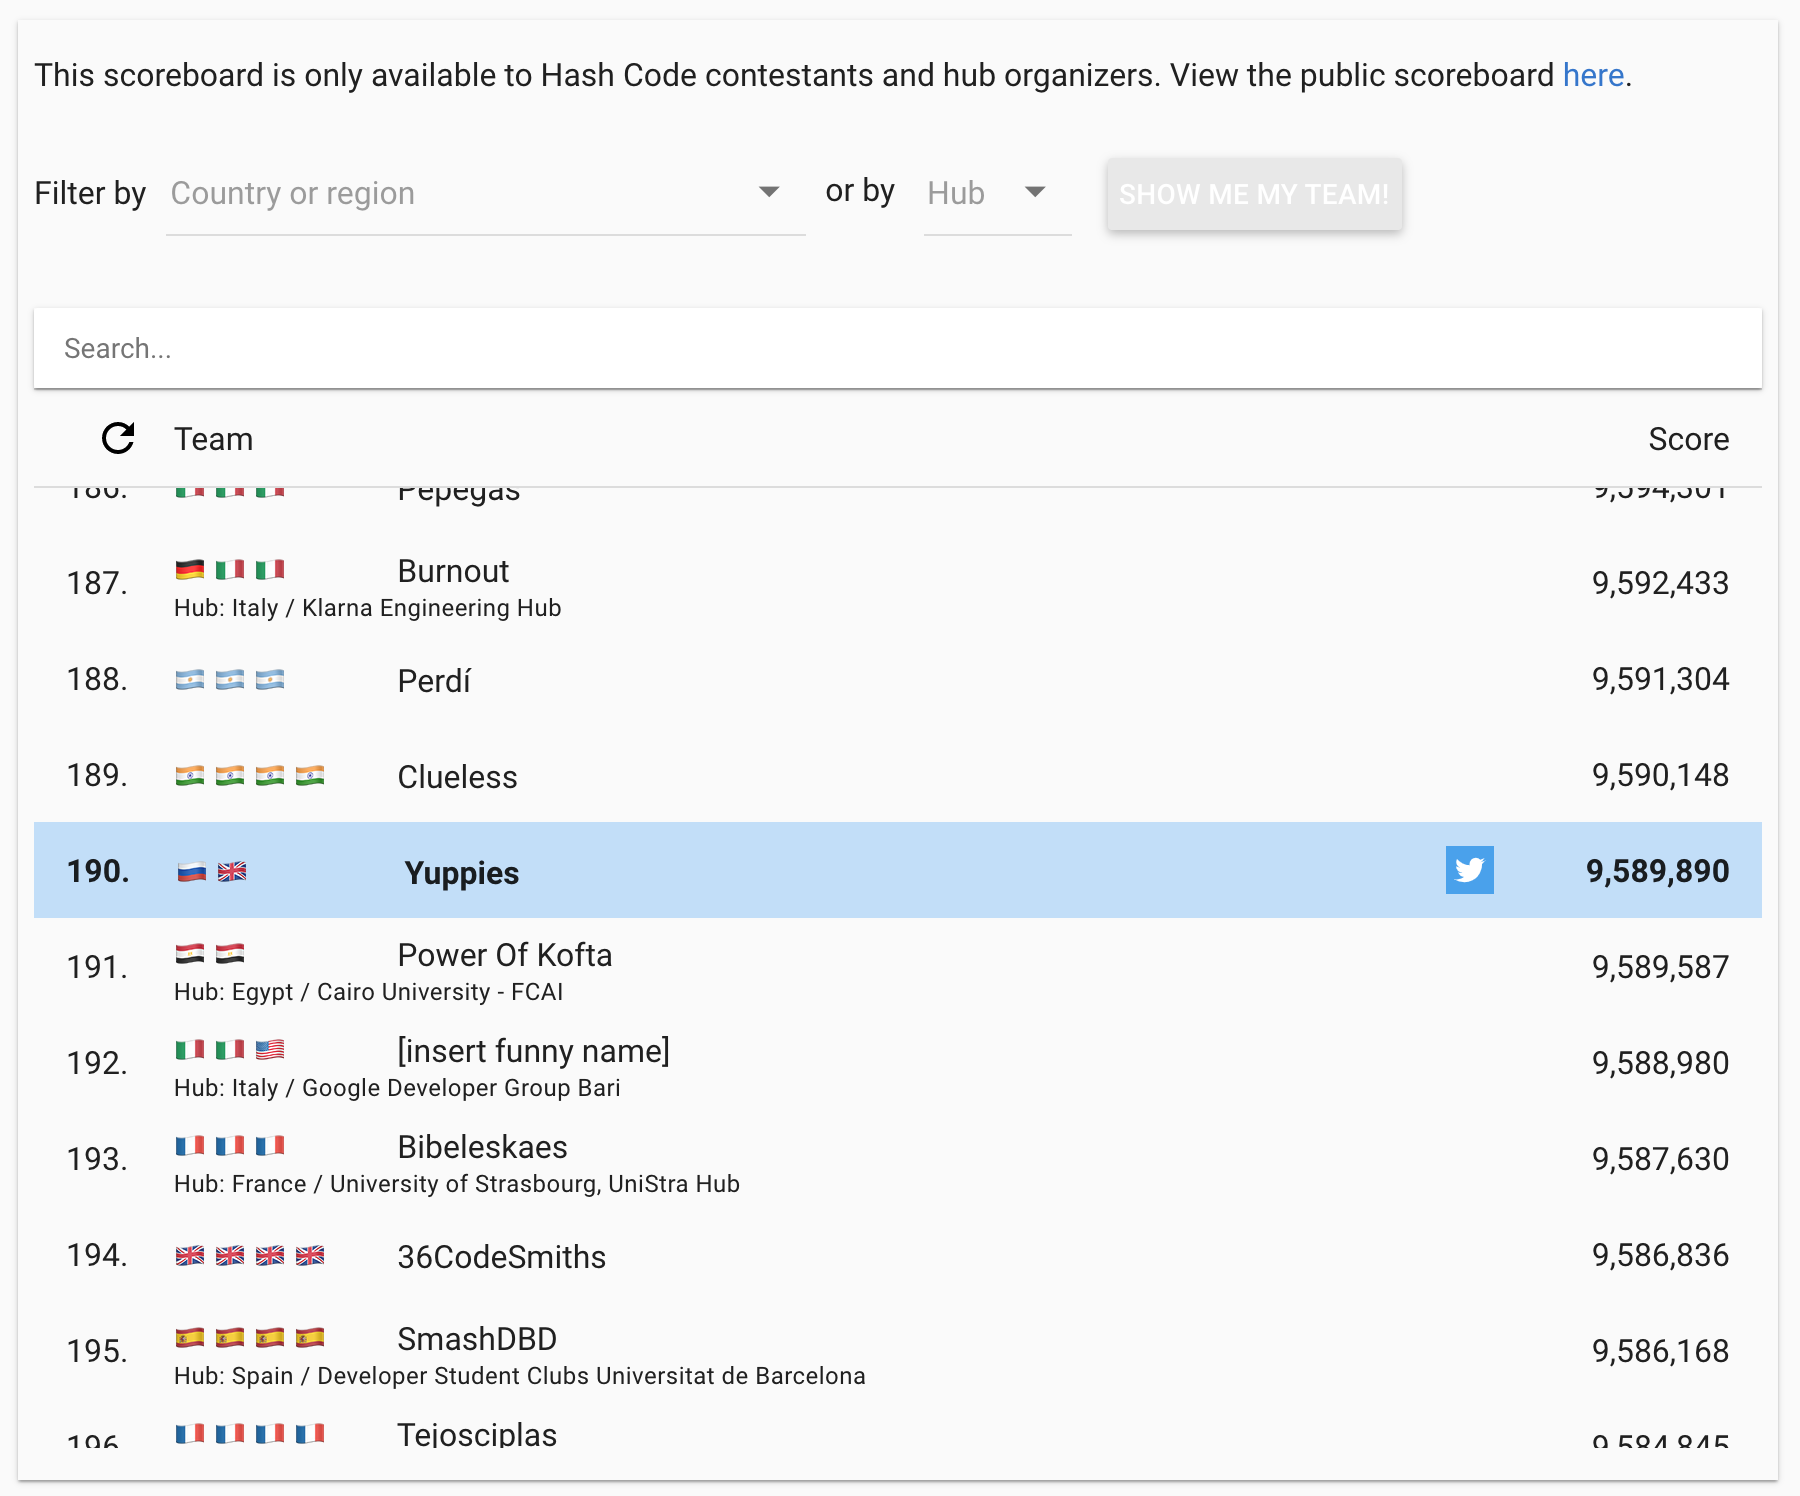
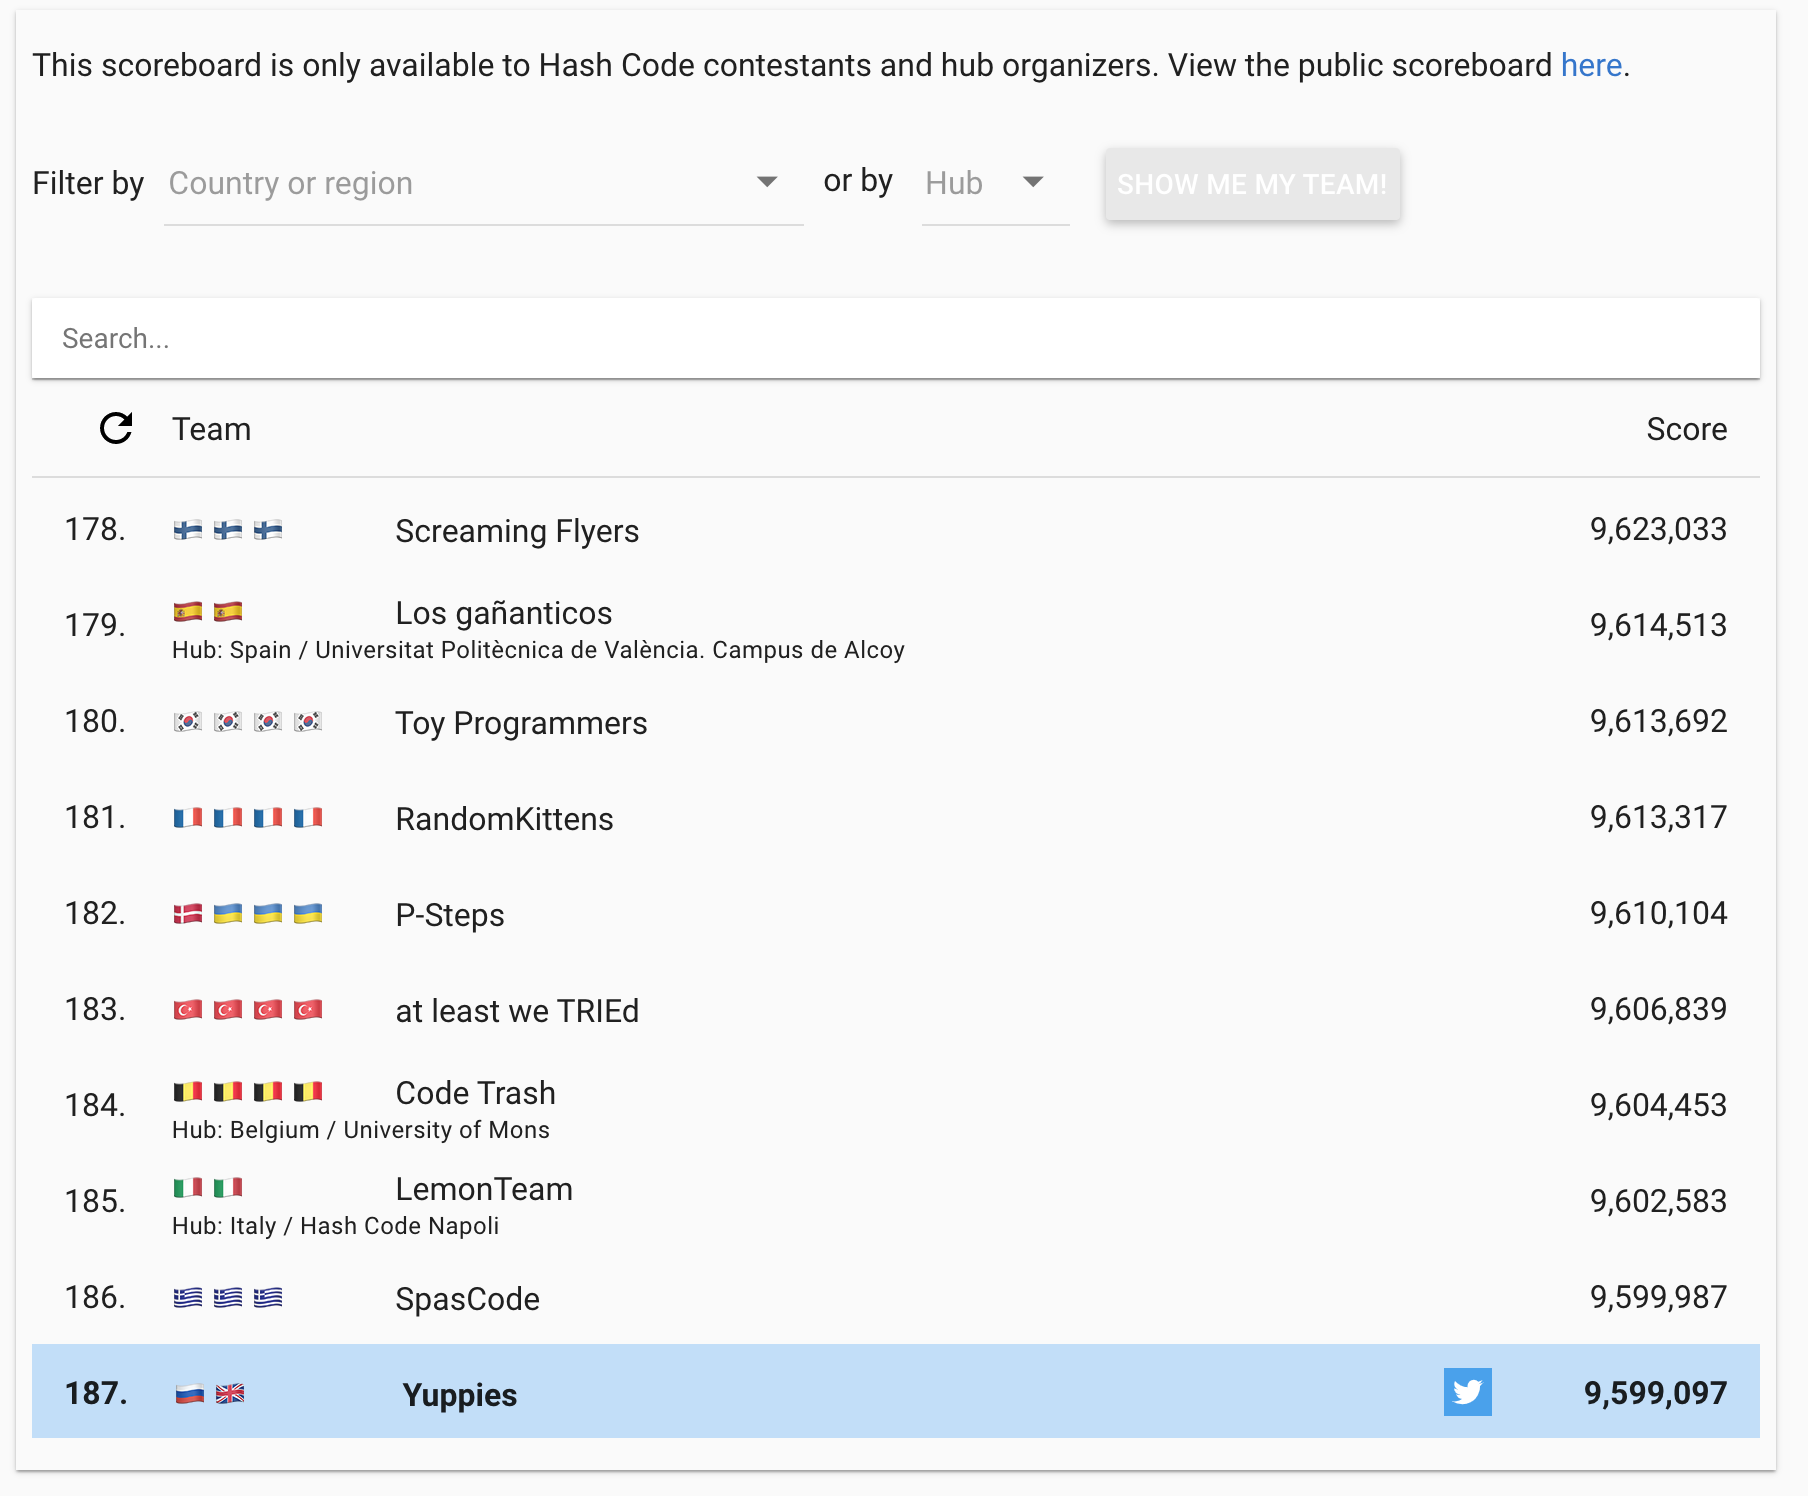
Update README.md

diff --git a/README.md b/README.md
@@ -12,7 +12,7 @@ One more attempt...
 
 ![all](all.png "All")
 
-We are `190/2060` in Extended Run
+We are `187/2611` in Extended Run
 
 ![russia](russia.png "Russia")
 
@@ -109,4 +109,8 @@ $ dotnet run -i input.txt -o ./output
 | 5 | E – Etoile | 697 648 |
 | 6 | F – Forever jammed | 1 196 271 |
 
-    Total: 8 673 590
+    Total: 8 673 590 points
+
+## Our final score
+
+    Total: 9 599 097 points
